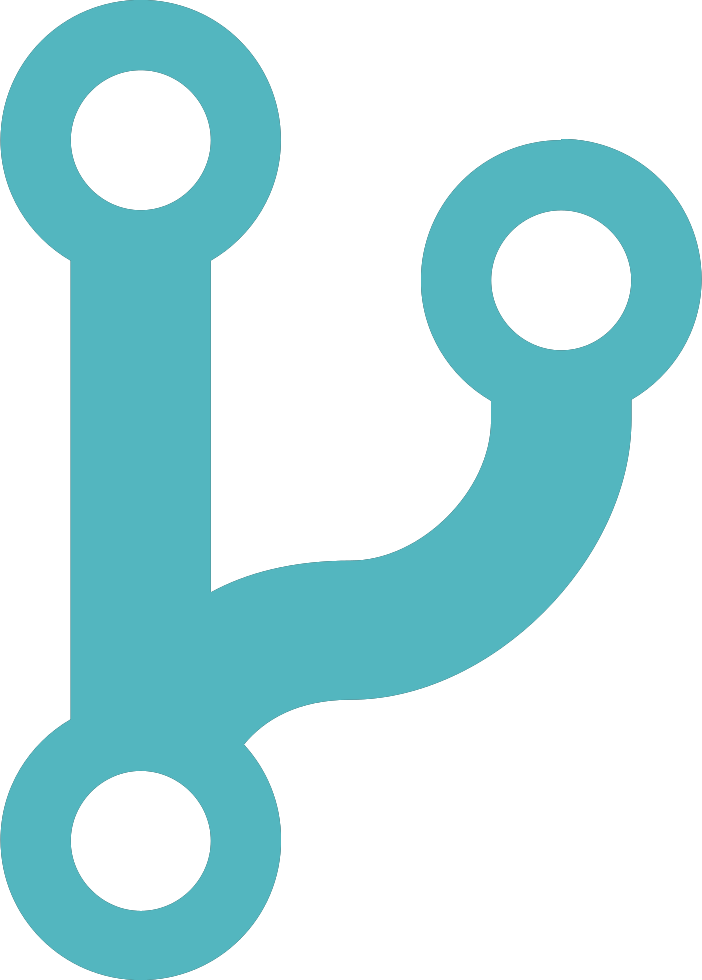
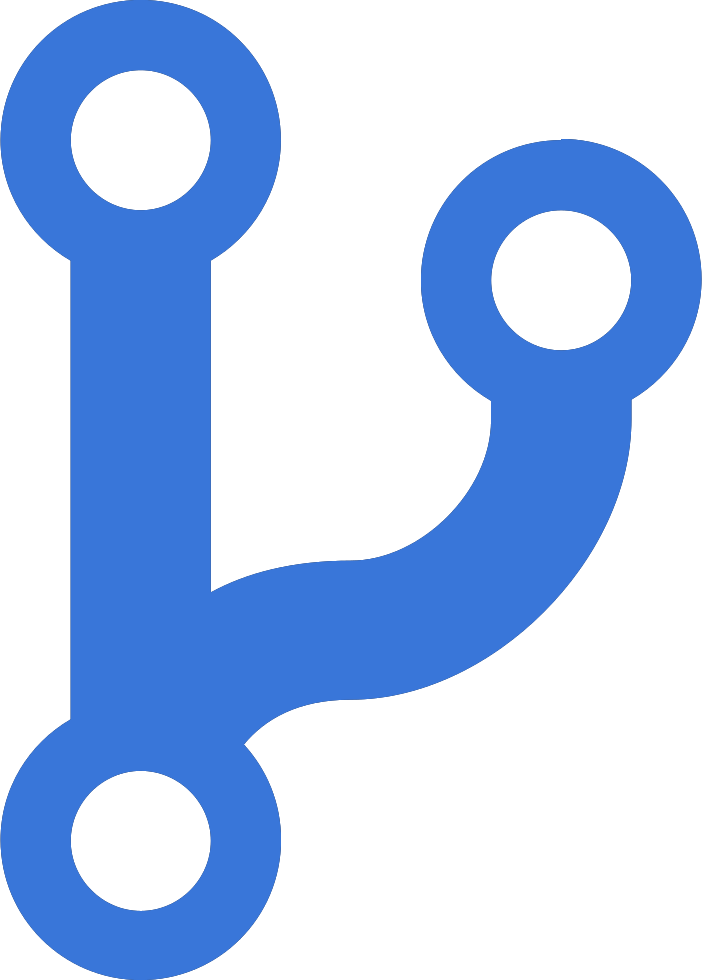
main-color

diff --git a/assets/style/index.css b/assets/style/index.css
@@ -67,14 +67,14 @@ a, a:hover, a:active, a:focus {
 
 .tags > li {
   margin-right: 0.25rem;
-  border: 1px solid #53b6bf;
+  border: 1px solid #3976d9;
   border-radius: 4px;
   padding: 0.1rem 0.25rem;
   font-size: 0.75rem;
 }
 
 .tags > li > a {
-  color: #53b6bf;
+  color: #3976d9;
 }
 
 .btn-wrap {
@@ -82,8 +82,8 @@ a, a:hover, a:active, a:focus {
 }
 
 .btn {
-  border: 2px solid #53b6bf;
-  color: #183468;
+  border: 2px solid #3976d9;
+  color: #3976d9;
   border-radius: 4px;
   padding: 0.5rem 2rem;
   -webkit-transition: all 0.35s;
@@ -91,7 +91,7 @@ a, a:hover, a:active, a:focus {
 }
 
 .btn:hover {
-  background-color: #53b6bf;
+  background-color: #3976d9;
   color: white;
 }
 
@@ -597,7 +597,7 @@ a, a:hover, a:active, a:focus {
   width: 1.25rem;
   height: 1.25rem;
   border-radius: 50%;
-  border: 6px solid #53b6bf;
+  border: 6px solid #3976d9;
   background-color: white;
   display: block;
   position: absolute;
@@ -612,7 +612,7 @@ a, a:hover, a:active, a:focus {
   height: 3rem;
   background-color: transparent;
   border-radius: 5rem 6rem 0 0;
-  border: 0 solid #53b6bf;
+  border: 0 solid #3976d9;
   border-left-width: 5px;
   border-top-width: 5px;
   position: absolute;
@@ -671,6 +671,6 @@ a, a:hover, a:active, a:focus {
 .detail .post-content hr {
   width: 2.5rem;
   height: 2px;
-  background-color: #53b6bf;
+  background-color: #3976d9;
   margin: 1rem auto;
 }

diff --git a/about.html b/about.html
@@ -2,7 +2,7 @@
 layout: default
 ---
 <div class="about layout">
-                <section class="page-top" style="background-image: url('/assets/images/page-top.jpg');">
+                <section class="page-top" style="background-image: url('/assets/images/page-top-1.jpg');">
                     <div class="container">
                         <div class="row">
                             <div class="col">

diff --git a/assets/style/base/_global.scss b/assets/style/base/_global.scss
@@ -32,7 +32,7 @@
 }
 .btn {
     border: 2px solid $main-color;
-    color: $main-dark;
+    color: $main-color;
     border-radius: 4px;
     padding: 0.5rem 2rem;
     transition: all 0.35s;

diff --git a/assets/style/util/_var.scss b/assets/style/util/_var.scss
@@ -1,4 +1,5 @@
-$main-color: #53b6bf;
+//$main-color: #53b6bf;
+$main-color: #3976d9;
 $main-dark: #183468;
 
 $black: #303030;
